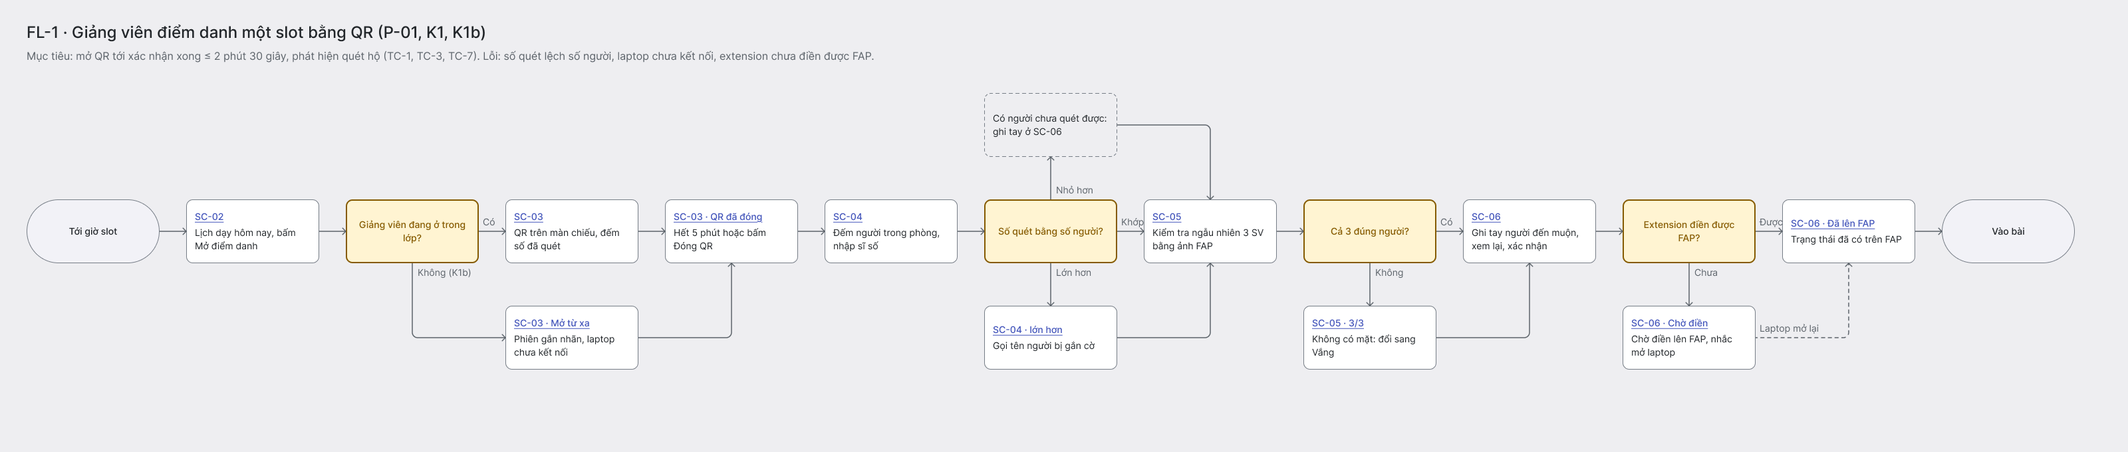
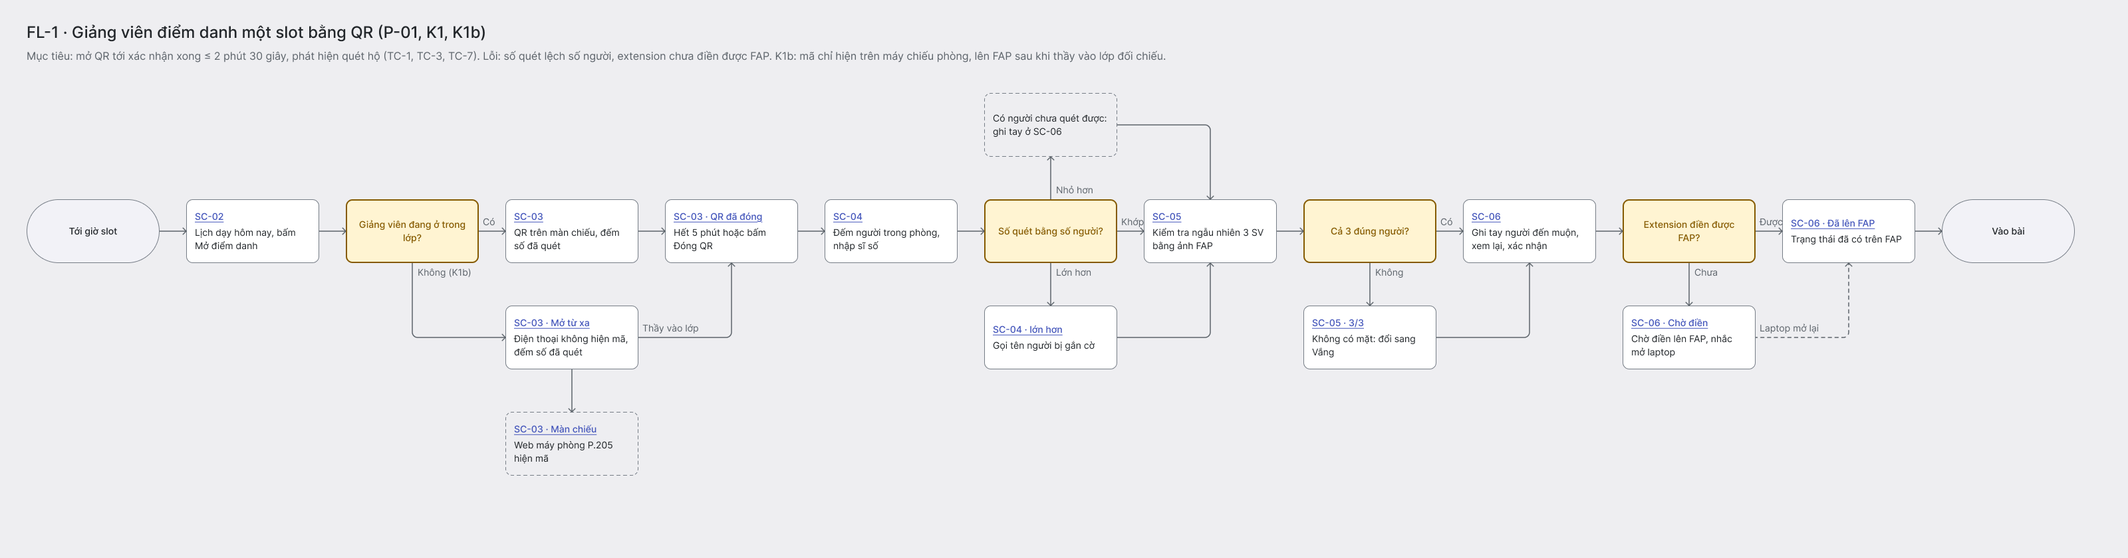
Figma IT-3b: one consistent day, remote QR on the room display, full prototype
Fix the clipped nav badge, drop decorative elements, retime K5 to PRM393 07:01,
add 6 state variants and the 'Màn chiếu P.205' web page, redraw the 3 user flows
and rebuild the prototype with 9 starting points. Record D-24 (pending) and AI-24.

Claude-Session: https://claude.ai/code/session_01MPJuKeLL2fQwoXmpsr75wd

diff --git a/design/figma-build.md b/design/figma-build.md
@@ -3,24 +3,43 @@
 | Thuộc tính | Giá trị |
 |---|---|
 | Mã tài liệu | DES-FIGMA-IT3 |
-| Trạng thái | Bản dựng đầu, chờ thien kiểm và sửa tay (D-07) |
+| Trạng thái | IT-3b: đã sửa theo góp ý của thien ngày 14/10, chờ thien kiểm và sửa tay (D-07) |
 | File Figma | [PRM323 Lab 2 · SE190533 · Điểm danh FAP](https://www.figma.com/design/9yDa2ylfREmndW1mK1hf7w) |
-| Người dựng | Claude qua Figma MCP (AI-23), theo D-07 B |
+| Người dựng | Claude qua Figma MCP (AI-23, AI-24), theo D-07 B |
 | Đầu vào | `design/DESIGN.md` v2, `design/component-system.md` (D-22, D-23), `ux/user-flow.md` v2, `ux/persona.md` v2, CR-01..CR-25 đã duyệt |
 | Ảnh xuất | `assets/figma/` |
+| Tài khoản | File nằm trong team edu của một người bạn (tài khoản edu có đủ lượt gọi MCP). Xem mục 4 |
 
 ## 1. Sáu trang
 
 | Trang | Nội dung | Ảnh |
 |---|---|---|
-| 01 User Flow | FL-1, FL-2, FL-3 vẽ lại từ `ux/user-flow.md`. Mỗi ô màn hình có mã SC màu xanh, gạch chân, bấm vào là nhảy tới đúng frame (đúng biến thể) trên trang 03 | `FL-1-user-flow.png`, `FL-2-user-flow.png`, `FL-3-user-flow.png` |
+| 01 User Flow | FL-1, FL-2, FL-3 vẽ lại từ `ux/user-flow.md`, có thêm nhánh mở từ xa (K1b), chưa cấp quyền camera và mất mạng khi gửi báo sai. Mỗi ô màn hình có mã SC màu xanh, gạch chân, bấm vào là nhảy tới đúng frame (đúng biến thể) trên trang 03 | `FL-1-user-flow.png`, `FL-2-user-flow.png`, `FL-3-user-flow.png` |
 | 02 Wireframe | 15 khung lo-fi, một khung cho mỗi SC | — |
-| 03 Final UI | 40 frame 360 × 800: 15 màn và 25 biến thể trạng thái đặt cùng hàng, bên phải màn gốc. Trên mỗi frame có nhãn, dưới mỗi frame có ghi chú trỏ về TC, NT, CR | `SC-01-…png` tới `SC-15-…png` |
+| 03 Final UI | 46 frame 360 × 800 (15 màn và 31 biến thể trạng thái, đặt cùng hàng bên phải màn gốc) và 1 frame web 1280 × 720 "Màn chiếu P.205". Trên mỗi frame có nhãn, dưới mỗi frame có ghi chú trỏ về TC, NT, CR và giờ trong ngày | `SC-01-…png` tới `SC-15-…png`, `SC-03-mo-tu-xa.png`, `SC-03-man-chieu-p205.png` |
 | 04 Design System | Biến màu (Light bắt buộc, Dark tùy chọn), 7 text style Inter, khoảng cách, góc bo, 4 effect style, xem trước Light/Dark | `page-04-design-system.png` |
-| 05 Components | 35 icon Lucide và 15 component set CMP-01..CMP-15 dựng bằng Auto Layout, variant và biến token | `page-05-components.png` |
-| 06 Prototype | Bản sao các màn được nối thành 3 luồng, có 3 điểm bắt đầu | — |
+| 05 Components | 35 icon Lucide và 15 component set CMP-01..CMP-15 dựng bằng Auto Layout, variant và biến token. CMP-04 có thêm 2 thuộc tính "Có báo sai mới" và "Số báo sai" | `page-05-components.png` |
+| 06 Prototype | 8 hàng, 9 điểm bắt đầu, xem mục 3 | — |
 
 Token chỉ lấy từ DESIGN.md (CR-21): 18 biến màu trong collection "Color · DESIGN.md v2", 16 biến số trong collection "Scale · DESIGN.md v2". Màu, khoảng cách, góc bo và chiều cao 48 dp trong component đều gắn biến, không nhập số tay.
+
+### Một ngày xuyên suốt
+
+Mọi màn kể cùng một ngày, thứ Tư 14/10, để giờ trên app bar, chip và ghi chú không mâu thuẫn nhau:
+
+| Giờ | Giảng viên (thầy dạy PRM393, SWT301) | Sinh viên (persona P-02) |
+|---|---|---|
+| 06:55 | Nếu chưa tới lớp: Mở từ xa (K1b) | |
+| 06:58 | SC-02, chưa điểm danh slot 1, chưa có báo sai | |
+| 07:01 | | Quét PRM393 · P.205 (K5): lần đầu mã hết hạn, quét lại được lúc 07:01:04 |
+| 07:02 | | SC-09 chip Chờ xác nhận, nút quét tắt |
+| 07:12–07:15 | Xác nhận slot 1; laptop tắt nên chờ điền, mở lại thì lên FAP 07:14 | |
+| 09:52 | SWT301 lên FAP | |
+| 11:52 | Ngô Thanh Vy gửi báo sai | |
+| 12:05 | SC-02 có huy hiệu 2 ở tab Báo sai, xử lý báo sai (FL-3) | |
+| 20:15–20:58 | | MAS291 bị ghi Vắng vì điện thoại hết pin (K3), gửi báo sai |
+
+K3 trong persona lấy ví dụ slot 1. Trong Figma, slot 1 (PRM393) đã dùng cho K5 nên K3 chuyển sang MAS291 slot 2; lý do bị Vắng và cách báo sai giữ nguyên.
 
 ## 2. Những phát hiện được giao cho Figma
 
@@ -32,32 +51,51 @@ Token chỉ lấy từ DESIGN.md (CR-21): 18 biến màu trong collection "Color
 
 ## 3. Prototype (trang 06)
 
-| Luồng | Điểm bắt đầu | Đường chính | Overlay | Loading → kết quả | Lỗi và hồi phục |
-|---|---|---|---|---|---|
-| FL-1 | SC-02 · Đang tải | SC-02 → SC-03 → dialog đóng QR → SC-03 đã đóng → SC-04 → SC-05 (chạm Hoàng Mai Linh) → SC-05 3/3 → SC-06 → dialog xác nhận → Chờ điền lên FAP → Đã lên FAP → SC-02 sau slot 1 | Đóng QR sớm; Xác nhận gửi lên FAP | SC-02 skeleton → lịch (1 giây); Chờ điền lên FAP → Đã lên FAP (2 giây, mô phỏng extension) | Nút "Thử điền lại" khi extension chưa điền được |
-| FL-2 | SC-09 · Có phiên đang mở | SC-09 → SC-10 (chạm khung quét) → SC-11 đang xác thực → Mã hết hạn → Quét lại → SC-10 → SC-11 thành công → SC-09 buổi tối → SC-12 → SC-13 → đang gửi → SC-14 đã gửi | — | SC-11 (1,2 giây) hai lần; SC-13 đang gửi → SC-14 (1,2 giây) | Mã hết hạn → Quét lại (K5) |
-| FL-3 | SC-02 · Sau slot 1, tab Báo sai | SC-02 → SC-07 → SC-08 → Sửa thành Có mặt → SC-08 đã sửa → SC-07 | Từ chối báo sai (Destructive) | — | "Hủy" trên dialog từ chối quay lại SC-08 |
+Mỗi hàng là một luồng, có tiêu đề và một dòng mô tả ở trên. Chọn điểm bắt đầu trong bảng Flow khi bấm Present.
 
-Đã kiểm bằng script đọc toàn bộ reaction trên trang 06: mọi frame đều có lối ra, không có đích hỏng, chỉ frame bắt đầu của FL-1 là không có mũi tên đi vào. Nút quay lại trên app bar dùng hành động Back. Hai nút không được nối: "Không quét được?" ở SC-10 (sheet hướng dẫn chưa có trong Figma) và nút "Xem lại và xác nhận" ở SC-05 1/3 (đang vô hiệu, đúng thiết kế).
+| Hàng | Điểm bắt đầu | Đường đi | Overlay, loading | Lỗi và hồi phục |
+|---|---|---|---|---|
+| FL-1 · Giảng viên điểm danh tại lớp | SC-01 | Đăng nhập → SC-02 đang tải → 06:58 → Mở điểm danh → SC-03 → đóng QR → SC-04 → SC-05 → SC-06 → xác nhận → Chờ điền lên FAP → Thử điền lại → Đã lên FAP → SC-02 07:15 | Dialog đóng QR sớm; dialog xác nhận gửi lên FAP; SC-02 đang tải 1 giây | Ở SC-04 bấm "−" để thấy số quét lớn hơn số người, "+" để về lại. "Về lịch dạy" khi đang chờ điền đưa tới SC-02 07:15 có thẻ Chờ điền lên FAP, chạm thẻ để thử lại |
+| FL-1 nhánh K1b · Mở từ xa | SC-02 06:58 | Mở từ xa → SC-03 mở từ xa (chạm khung xanh để xem trang Màn chiếu P.205) → "Tôi đã vào lớp: đóng QR" → QR đã đóng → nối vào SC-04 của FL-1 | — | Phiên mở từ xa không lên FAP trước bước đối chiếu |
+| FL-1 lỗi · Sai tài khoản | SC-01 lỗi tài khoản | Đăng nhập lại → nối vào FL-1 | — | Có |
+| FL-2 · Sinh viên quét mã (K5) | SC-09 07:01 | Quét mã → SC-10 (chạm khung quét) → đang xác thực → Mã hết hạn → Quét lại → thành công → SC-09 chờ xác nhận → tab Báo sai (trống) | SC-11 đang xác thực 1,2 giây, hai lần | Mã hết hạn → Quét lại |
+| FL-2 lỗi · Camera và mất mạng | SC-10 chưa có quyền camera | Cấp quyền → quét → mất mạng → thử lại → thành công | SC-11 đang xác thực | Chưa cấp camera; mất mạng |
+| FL-2 · Sinh viên báo sai (K3) | SC-09 20:58 | Chạm MAS291 → SC-12 → SC-13 → đang gửi → mất mạng → gửi lại → SC-14 Đã gửi → sau 3 giây Đã sửa | SC-13 đang gửi 1,2 giây, hai lần; SC-14 Đã gửi → Đã sửa 3 giây (mô phỏng giảng viên xử lý) | Mất mạng khi gửi → Thử gửi lại |
+| FL-2 phục hồi · Bị từ chối | SC-14 bị từ chối | Xem cách gửi đơn khiếu nại → SC-15 | — | Đường sang đơn khiếu nại |
+| FL-2 phục hồi · Quá hạn (K4) | SC-12 đã qua hạn (13/10) | Xem cách gửi đơn khiếu nại → SC-15 | — | Như trên |
+| FL-3 · Xử lý báo sai | SC-02 12:05 | Tab Báo sai (huy hiệu 2) → SC-07 → báo sai của Hoàng Mai Linh → Sửa thành Có mặt → SC-08 đã sửa → SC-07 sau khi sửa → tab Hôm nay, huy hiệu còn 1 | Dialog từ chối (Destructive) → SC-07 sau khi từ chối | Hủy trên dialog quay lại SC-08 |
+
+Đã kiểm bằng script đọc toàn bộ reaction trên trang 06: 59 frame, 0 đích hỏng, frame nào cũng có lối ra, chỉ 9 điểm bắt đầu là không có mũi tên đi vào. Nút quay lại trên app bar dùng hành động Back. Những chỗ cố ý chưa nối: "Không quét được?" (sheet chưa có, việc của thien ở mục 5), "Ghi tay thêm sinh viên" ở SC-06 (sheet chưa có), "Mở FAP" ở SC-15 (mở trang ngoài), và nút đang vô hiệu.
 
 ## 4. Khoảng trống còn lại
 
 | Khoảng trống | Vì sao quan trọng | Đề xuất |
 |---|---|---|
 | SC-11 còn thiếu 4 trạng thái ghi trong `ux/user-flow.md`: đã quét rồi, không có trong lớp, máy đã dùng cho tài khoản khác, QR đã đóng | Rubric chấm "trạng thái thiếu" | Nhân bản frame "Mã hết hạn", đổi tiêu đề, nguyên nhân, biểu tượng bằng thuộc tính của CMP-09 |
-| Sheet "Không quét được?" (SC-10) | Đã có ở Stitch IT-1, chưa có ở Figma | Dựng bằng frame có góc bo 2xl như sheet chống gian lận |
+| Sheet "Không quét được?" (SC-10, SC-11) | Đã có ở Stitch IT-1, chưa có ở Figma | Dựng bằng frame có góc bo 2xl như sheet chống gian lận, nối vào FL-2 |
 | Kiểm ở bề rộng 412 dp | Checklist accessibility của đề yêu cầu | Nhân bản 3 màn, đổi rộng 412, ghi kết quả vào `design/design-decisions.md` |
 | SC-15: tên mục "Thủ tục/Đơn từ", phòng QLĐT, 2 ngày làm việc | Lấy từ `research/02-desk/fap-edit-window.md` (V01, V02), là nguồn không chính thức | thien mở FAP thật và sửa chữ nếu khác |
-| Huy hiệu "1" trên tab Báo sai ở SC-09 lúc 09:20 | Sinh viên chưa gửi báo sai nào nên số này không có nghĩa | Bỏ huy hiệu ở biến thể sáng, chỉ hiện từ khi có kết quả báo sai |
-| File nằm trong team "Ngo Gia Kiet (K18 HCM)'s team" | Lịch sử phiên bản sẽ hiện tên tài khoản tạo file | thien xác nhận đây là tài khoản của mình, hoặc chuyển file về team của mình trước khi nộp |
+| Màn chiếu P.205 giả định phòng học có máy tính nối máy chiếu | D-19 nói "máy tính trong phòng có app desktop tự hiện QR", nhưng chưa có ảnh hay nguồn | thien chụp một phòng học ở HCM, hoặc ghi rõ là giả định trên slide |
+| File nằm trong team "Ngo Gia Kiet (K18 HCM)'s team", là tài khoản edu của bạn thien, mượn để có đủ lượt gọi MCP | Giảng viên chấm D-07 bằng lịch sử phiên bản; mọi thao tác hiện mang tên chủ tài khoản | Nhờ bạn mời tài khoản của thien vào file với quyền chỉnh sửa, rồi thien làm mục 5 bằng tài khoản đó. Ghi rõ trong Disclosure |
 
 ## 5. Phần thien làm tay trên Figma (D-07)
 
 Đề cho phép AI dựng nhưng lịch sử phiên bản Figma sẽ được xem. Những việc dưới đây vừa lấp khoảng trống ở mục 4, vừa để lại dấu thao tác của người thiết kế:
 
-1. Dựng 4 trạng thái còn thiếu của SC-11 từ CMP-09 (mục 4, dòng 1).
+0. Vào file bằng tài khoản của thien (mục 4, dòng cuối).
+1. Dựng 4 trạng thái còn thiếu của SC-11 từ CMP-09.
 2. Dựng sheet "Không quét được?" và nối nó vào prototype FL-2.
 3. Kiểm 3 màn ở 412 dp, sửa chỗ vỡ nếu có.
 4. Mở FAP, kiểm lại chữ ở SC-15.
-5. Bỏ huy hiệu sai ở SC-09.
-6. Chạy cả 3 luồng ở chế độ Present, sửa chỗ chạm lệch, rồi lưu một phiên bản có tên trong version history (ví dụ "IT-3 thien kiểm xong").
+5. Chạy cả 9 điểm bắt đầu ở chế độ Present, sửa chỗ chạm lệch, rồi lưu một phiên bản có tên trong version history (ví dụ "IT-3 thien kiểm xong").
+
+## 6. Vòng sửa IT-3b (14/10, theo góp ý của thien)
+
+| Góp ý | Đã sửa |
+|---|---|
+| Huy hiệu số trên tab Báo sai bị cắt | CMP-04: bỏ cắt nội dung ở tab và nền chỉ báo, đẩy huy hiệu lên 6 px, thêm thuộc tính bật/tắt và số. Huy hiệu chỉ bật ở SC-02 12:05 (2) và bản sao 12:08 trên trang 06 (1) |
+| Mỗi thành phần phải có lý do | Bỏ banner "2 báo sai mới" ở SC-02 (trùng huy hiệu); bỏ chip "Chưa điểm danh" ở slot chưa tới giờ; bỏ banner hạn báo sai ở SC-09 khi không có buổi nào sai (NT-4 chỉ áp dụng ở màn có báo sai); bỏ phụ đề ngày ở SC-14; bỏ chữ "Ai đang trong phòng?" ở SC-04; bỏ câu "Giảng viên sẽ kiểm tra ngẫu nhiên." ở SC-11 Mã hết hạn |
+| Giờ giấc không khớp | Dựng lại một ngày (mục 1): K5 dời về PRM393 07:01 thay cho MAS291 09:31, vì MAS291 là buổi bị Vắng ở K3; SC-02 có thêm biến thể 07:15 đã lên FAP và 12:05 có báo sai mới |
+| Thiếu trạng thái để prototype liền mạch | Thêm SC-09 "Đã quét, chờ xác nhận", SC-14 "Trống", SC-07 "Sau khi sửa" và "Sau khi từ chối" |
+| Luồng mở QR khi giảng viên ở ngoài | SC-03 mở từ xa không còn hiện mã trên điện thoại; thêm trang web "Màn chiếu P.205" gắn với phòng; nút "Tôi đã vào lớp: đóng QR" nối vào bước đối chiếu. Chờ thien chốt D-24 |
+| Prototype chưa trọn vẹn | Dựng lại trang 06 như mục 3 |

diff --git a/process/traceability-matrix.md b/process/traceability-matrix.md
@@ -40,19 +40,19 @@ Nguồn (S/H, R, O, T, Survey) → Phát hiện F → Nhu cầu N → Persona P 
 | Màn hình SC | Component CMP (variant) | Frame Figma | Mục handoff |
 |---|---|---|---|
 | SC-01 | CMP-01 | Trang 03, hàng SC-01: Default; Lỗi tài khoản | `handoff/flutter-handoff.md` (S5) |
-| SC-02 | CMP-03, CMP-10, CMP-01, CMP-04, CMP-05, CMP-07 (skeleton) | Trang 03, hàng SC-02: Default; Sau slot 1; Đang tải | `handoff/flutter-handoff.md` (S5) |
-| SC-03 | CMP-05, CMP-14 (Đang mở, Đã đóng), CMP-11, CMP-10, CMP-01, CMP-06 (Confirmation) | Trang 03, hàng SC-03: Default; QR đã đóng; Mở từ xa, laptop chưa kết nối; Dialog đóng QR sớm | `handoff/flutter-handoff.md` (S5) |
+| SC-02 | CMP-03, CMP-10, CMP-01, CMP-04, CMP-05, CMP-07 (skeleton) | Trang 03, hàng SC-02: Default 06:58; Sau slot 1, chờ điền lên FAP; Đang tải; Sau slot 1, đã lên FAP; Có báo sai mới | `handoff/flutter-handoff.md` (S5) |
+| SC-03 | CMP-05, CMP-14 (Đang mở, Đã đóng), CMP-11, CMP-10, CMP-01, CMP-06 (Confirmation) | Trang 03, hàng SC-03: Default; QR đã đóng; Mở từ xa; Dialog đóng QR sớm; trang web Màn chiếu P.205 (D-24) | `handoff/flutter-handoff.md` (S5) |
 | SC-04 | CMP-05, CMP-11, CMP-01 | Trang 03, hàng SC-04: Default (khớp); Số quét lớn hơn số người | `handoff/flutter-handoff.md` (S5) |
 | SC-05 | CMP-05, CMP-15, CMP-01 | Trang 03, hàng SC-05: Default 1/3; Đã kiểm tra 3/3 | `handoff/flutter-handoff.md` (S5) |
 | SC-06 | CMP-05, CMP-11, CMP-10, CMP-01, CMP-06 (Confirmation) | Trang 03, hàng SC-06: Default; Dialog xác nhận; Chờ điền lên FAP; Đã lên FAP | `handoff/flutter-handoff.md` (S5) |
-| SC-07 | CMP-05, CMP-03, CMP-10, CMP-04, CMP-08 | Trang 03, hàng SC-07: Default; Trống | `handoff/flutter-handoff.md` (S5) |
+| SC-07 | CMP-05, CMP-03, CMP-10, CMP-04, CMP-08 | Trang 03, hàng SC-07: Default; Trống; Sau khi sửa; Sau khi từ chối | `handoff/flutter-handoff.md` (S5) |
 | SC-08 | CMP-05, CMP-10, CMP-01, CMP-06 (Destructive) | Trang 03, hàng SC-08: Default; Dialog từ chối; Đã sửa | `handoff/flutter-handoff.md` (S5) |
-| SC-09 | CMP-05, CMP-12, CMP-03, CMP-10, CMP-01 (Disabled), CMP-04 | Trang 03, hàng SC-09: Default; Có phiên đang mở; Buổi tối, có buổi Vắng | `handoff/flutter-handoff.md` (S5) |
+| SC-09 | CMP-05, CMP-12, CMP-03, CMP-10, CMP-01 (Disabled), CMP-04 | Trang 03, hàng SC-09: Default; Có phiên đang mở; Buổi tối, có buổi Vắng; Đã quét, chờ xác nhận | `handoff/flutter-handoff.md` (S5) |
 | SC-10 | CMP-01, CMP-09 | Trang 03, hàng SC-10: Default; Chưa có quyền camera | `handoff/flutter-handoff.md` (S5) |
 | SC-11 | CMP-05, CMP-07 (Spinner), CMP-10, CMP-01, CMP-09 | Trang 03, hàng SC-11: Đang xác thực; Thành công; Mã hết hạn; Mất mạng | `handoff/flutter-handoff.md` (S5) |
 | SC-12 | CMP-05, CMP-10, CMP-12, CMP-01 | Trang 03, hàng SC-12: Còn hạn; Đã qua hạn | `handoff/flutter-handoff.md` (S5) |
 | SC-13 | CMP-05, CMP-02, CMP-12, CMP-01 (Loading) | Trang 03, hàng SC-13: Nhập; Đang gửi; Mất mạng | `handoff/flutter-handoff.md` (S5) |
-| SC-14 | CMP-05, CMP-13, CMP-10, CMP-01, CMP-04 | Trang 03, hàng SC-14: Đã gửi; Đã sửa; Bị từ chối | `handoff/flutter-handoff.md` (S5) |
+| SC-14 | CMP-05, CMP-13, CMP-10, CMP-01, CMP-04, CMP-08 | Trang 03, hàng SC-14: Đã gửi; Đã sửa; Bị từ chối; Trống | `handoff/flutter-handoff.md` (S5) |
 | SC-15 | CMP-05, CMP-01 | Trang 03, hàng SC-15: Một trạng thái | `handoff/flutter-handoff.md` (S5) |
 
 ## 4. AI critique → Quyết định → Thay đổi trong Figma
@@ -64,6 +64,7 @@ Nguồn (S/H, R, O, T, Survey) → Phát hiện F → Nhu cầu N → Persona P 
 | CR-21 | DESIGN.md mục 4 | Modify: Figma chỉ dùng biến DESIGN.md | D-20, D-22 | Mọi màn (trang 04, 05) |
 | CR-24 | WCAG 1.4.10; NT-3 | Accept: xuống dòng, không cắt dữ liệu | — | SC-03, SC-04 (CMP-11) |
 | CR-25 | Nielsen #1; CMP-14 | Accept: trạng thái QR đã đóng | — | SC-03 · QR đã đóng (CMP-14) |
+| IT-3b (góp ý của thien, 14/10) | Nielsen #8 (bỏ phần trang trí), #1; NT-4, NT-5 | Accept: bỏ banner, chip, phụ đề thừa; thống nhất giờ trong ngày; huy hiệu CMP-04 không bị cắt; mở từ xa theo D-24 | D-24 (TẠM) | SC-02, SC-03, SC-04, SC-07, SC-09, SC-11, SC-14 (`design/figma-build.md` mục 6) |
 
 ## 5. Kiểm tra độ phủ (chạy trước khi nộp)
 

diff --git a/ai/ai-design-log.md b/ai/ai-design-log.md
@@ -29,6 +29,7 @@ Ghi theo thứ tự thời gian, mỗi lần dùng AI có một mã `AI-nn` (xem
 | AI-21 | 14/10/2026 | Claude (phản biện), thien chạy Stitch | Kiểm IT-1 bằng ảnh và mã HTML: 15/16 phát hiện đã sửa, 6 phát hiện mới CR-18..CR-23; soạn prompt IT-2 | `design/stitch-critique-it1.md`; `ai/prompts/AI-21-stitch-it2.md` → `assets/stitch/IT-2-*.png` |
 | AI-22 | 14/10/2026 | Claude (phản biện) | Kiểm IT-2: 5/5 phát hiện đã sửa; đánh giá lại CR-19 nhờ đọc mã HTML (bộ đếm chạy thật); thêm CR-24, CR-25; chốt vòng Stitch | `design/stitch-critique-it2.md` |
 | AI-23 | 14/10/2026 | Claude (Figma MCP, Plugin API) | Dựng file Figma IT-3: biến token, text/effect style, 15 component, 15 màn và 25 biến thể, 3 user flow có liên kết, prototype 3 luồng; áp dụng CR-21, CR-24, CR-25 | Không có prompt riêng; đầu vào là DESIGN.md v2, user-flow v2 → file Figma, `design/figma-build.md`, `assets/figma/` |
+| AI-24 | 14/10/2026 | Claude (Figma MCP, Plugin API) | Vòng IT-3b theo góp ý của thien: sửa huy hiệu CMP-04, rà nghĩa từng thành phần, thống nhất giờ trong một ngày, thêm 6 biến thể và trang web Màn chiếu P.205, dựng lại 3 User Flow và prototype 9 điểm bắt đầu | Không có prompt riêng; đầu vào là góp ý của thien, D-19, D-21, gợi ý của GVHD → file Figma, `design/figma-build.md` mục 6, D-24 |
 
 ## AI-23 — Dựng file Figma (14/10/2026)
 
@@ -37,6 +38,13 @@ Ghi theo thứ tự thời gian, mỗi lần dùng AI có một mã `AI-nn` (xem
 - **Tự kiểm:** chụp lại từng màn sau khi dựng và sửa các lỗi dựng hình (thuộc tính chữ dùng chung làm mọi chip cùng một nhãn, scrim đục hẳn, hàng danh sách đè nhau, chữ cái avatar sai, ô lý do không giãn theo nội dung…). Script đọc toàn bộ reaction ở trang 06 xác nhận không có ngõ cụt.
 - **Sửa nội dung nhờ đối chiếu nghiên cứu:** bản đầu của SC-15 ghi thời gian xử lý đơn là "vài ngày (Assumed)". Đối chiếu `research/02-desk/fap-edit-window.md` thì đã có nguồn V01, V02: mục Thủ tục/Đơn từ, phòng QLĐT, 2 ngày làm việc. Màn được sửa theo nguồn.
 - **Khoảng trống chưa làm:** 4 trạng thái của SC-11, sheet "Không quét được?", kiểm 412 dp (`design/figma-build.md` mục 4).
+
+## AI-24 — Sửa Figma theo góp ý (IT-3b, 14/10/2026)
+
+- **Góp ý của thien:** huy hiệu số bị che; mỗi thành phần phải có mục đích; prototype phải nối trọn vẹn; xử lý thế nào khi giảng viên mở QR lúc đang ở ngoài (GVHD gợi ý một trang web hiện QR; thien lo nút "Điểm danh" trong app làm SV ở nhà cũng điểm danh được).
+- **Phản biện của Claude:** đồng ý với lo ngại của thien, nút trong app không chứng minh có mặt. Đề xuất trang web gắn với phòng thay vì link công khai (D-24, chờ thien chốt, Figma dựng tạm theo A).
+- **Tự kiểm:** rà từng frame và bỏ 6 thành phần không có việc gì để làm (mục 6 của `design/figma-build.md`). Phát hiện mâu thuẫn giờ: SC-11 báo SV quét MAS291 lúc 09:31 trong khi SC-09 buổi tối ghi MAS291 "không có lượt quét". Sửa bằng một dòng thời gian chung cho cả ngày. Script đọc reaction trang 06: 59 frame, 9 điểm bắt đầu, 0 đích hỏng, không frame nào thiếu lối ra.
+- **Giới hạn:** giả định phòng học có máy tính nối máy chiếu chưa có bằng chứng; lượt quét ngoài Wi-Fi trường chỉ gắn cờ.
 
 ## AI-03 — Kiểm định thiên lệch bộ câu hỏi (13/10/2026)
 

diff --git a/process/decision-log.md b/process/decision-log.md
@@ -28,3 +28,4 @@ Trạng thái: **MỞ** (chờ thien) · **CHỐT** · **TẠM** (Claude làm ti
 | D-21 | Chống gian lận khi QR chiếu chung (D-19) | A. Chỉ lớp nền của app thật (tài khoản, danh sách lớp, QR 15 giây) · B. Thêm một máy một người, đối chiếu sĩ số, kiểm tra ngẫu nhiên 3 SV có ảnh FAP; phiên mở từ xa phải chờ GV xác nhận rồi mới điền FAP · C. B cộng kiểm tra wifi trường hoặc GPS | **B.** Không biện pháp kỹ thuật nào chặn hết (RES-DESK-QR); bỏ đọc tên là bỏ lớp kiểm soát con người duy nhất, nên phải đưa lại một bước người kiểm tra. Kiểm tra ngẫu nhiên 3/32 mỗi buổi cho xác suất bắt được người quét hộ ≈ 86% qua 20 buổi. C chặn oan SV dùng 4G (Q30) và đụng dữ liệu vị trí. Xem `ux/attendance-integrity.md` | **B** (thien chọn trên thẻ quyết định, 14/10/2026) | CHỐT |
 | D-22 | Hệ component và biểu tượng cho bản cuối | A. Giữ component theo M3 và Remix Icon như DESIGN.md v2 · B. Cấu trúc shadcn + Lucide, giữ màu FAP (D-20) và font Roboto, ghi đè kích thước cho di động (48 dp, chữ ≥ 14 sp) · C. shadcn nguyên bản, kể cả bảng màu mặc định | thien thấy IT-0 chưa elegant, muốn dùng shadcn + Lucide (14/10/2026). Đề xuất B: căn cứ ở DES-SYSTEM (`design/component-system.md`) mục 2. C mâu thuẫn D-20 | **B** (thien chọn trên thẻ quyết định, 14/10/2026) | CHỐT |
 | D-23 | Font của bản thiết kế | A. Roboto: FAP mới dùng (O-02.5, Observed) · B. Inter: web, mobile của app FAP Attendance đang dùng (DES-SYSTEM mục 0, Observed) | Đề xuất B. Người dùng ít nhận ra khác biệt giữa hai font không chân cùng họ neo-grotesque (suy luận, chưa có nghiên cứu), nên lợi ích "giống FAP" nhỏ. Còn nhất quán với sản phẩm thật thì thấy rõ và không tốn công đổi. Cả hai đủ dấu tiếng Việt | **B · Inter** (thien chọn trên thẻ quyết định, 14/10/2026) | CHỐT |
+| D-24 | Khi GV mở điểm danh từ xa (K1b), QR hiện ở đâu để SV quét? | A. Trang web "Màn chiếu P.205" gắn với máy tính phòng nối máy chiếu, mã tự hiện khi GV bấm Mở từ xa · B. Trang web ai có link cũng mở được (đúng nguyên văn gợi ý của GVHD) · C. Không dùng QR: nút "Điểm danh" trong app khi phiên mở (ý ban đầu của thien) | **A.** C chỉ chứng minh SV có tài khoản, không chứng minh có mặt: SV ở nhà và người điểm danh hộ đều qua được, đúng lo ngại của thien. B có link là quét được từ nhà trên laptop; chỉ còn bước đếm sĩ số để bắt. A giữ ý GVHD (dùng trang web) nhưng chỉ người trong phòng thấy mã; mã đổi sau 15 giây; lượt quét không qua Wi-Fi trường (FPTU_Students, AI-05) bị **gắn cờ, không chặn**, khác D-21 C ở chỗ chỉ áp dụng cho phiên mở từ xa và không chặn SV dùng 4G. Với cả ba cách, phiên mở từ xa vẫn giữ Chờ xác nhận tới khi GV vào lớp đối chiếu (D-21 B). Giả định: phòng học HCM có máy tính phòng nối máy chiếu (khớp D-19 "máy tính trong phòng có app desktop"), chưa có ảnh xác nhận | Chờ thien trả lời thẻ quyết định (14/10/2026). Figma đã dựng theo A | TẠM |

diff --git a/ux/user-flow.md b/ux/user-flow.md
@@ -62,7 +62,7 @@ graph TD
 |---|---|---|---|---|---|
 | SC-01 | Đăng nhập | Cả hai | FL-1, FL-2 | — | Mặc định, đang tải, lỗi tài khoản không thuộc FPTU |
 | SC-02 | Lịch dạy hôm nay | GV | FL-1, FL-3 | N-04, N-11 | Slot sắp tới (nút "Mở điểm danh"), đang mở, chờ xác nhận, chờ điền lên FAP, đã lên FAP, có báo sai mới |
-| SC-03 | Phiên điểm danh: QR đang mở | GV | FL-1 | N-04 | Mở tại lớp, **mở từ xa** (nhãn riêng), laptop chưa kết nối, sắp đóng, đã đóng; dòng có cờ "Cùng thiết bị" |
+| SC-03 | Phiên điểm danh: QR đang mở | GV | FL-1 | N-04 | Mở tại lớp, **mở từ xa** (mã chỉ hiện trên trang web Màn chiếu P.205, D-24), laptop chưa kết nối, sắp đóng, đã đóng; dòng có cờ "Cùng thiết bị" |
 | SC-04 | Đối chiếu sĩ số | GV | FL-1 | N-04 | Khớp, số quét lớn hơn số người (chỉ ra người quét cuối, quét sát lúc mã đổi), số quét nhỏ hơn số người |
 | SC-05 | Kiểm tra ngẫu nhiên | GV | FL-1 | N-04 | 3 thẻ có ảnh FAP; Đúng người, Không có mặt |
 | SC-06 | Xem lại và xác nhận | GV | FL-1 | N-03, N-11 | Ghi tay người đến muộn kèm giờ, còn cờ chưa xử lý, đã xác nhận: Chờ điền lên FAP, Đã lên FAP, extension lỗi |
@@ -88,7 +88,7 @@ Ba flow được chấm điểm. Flow nào cũng có nhánh lỗi. FL-3 là flow
 
 ### FL-1 · Điểm danh một slot bằng QR (P-01, kịch bản K1 và K1b)
 
-Mục tiêu: từ lúc mở QR tới lúc xác nhận xong trong ≤ 2 phút 30 giây, không sai lệch, và phát hiện được quét hộ (TC-1, TC-3, TC-7). Nhánh lỗi: số quét không khớp số người; laptop chưa kết nối; extension chưa điền được.
+Mục tiêu: từ lúc mở QR tới lúc xác nhận xong trong ≤ 2 phút 30 giây, không sai lệch, và phát hiện được quét hộ (TC-1, TC-3, TC-7). Nhánh lỗi: số quét không khớp số người; laptop chưa kết nối; extension chưa điền được. Nhánh K1b (D-24, đang chờ thien chốt): mã chỉ hiện trên trang web "Màn chiếu P.205" gắn với máy tính phòng, không hiện trên điện thoại của GV, để người ở ngoài phòng không thấy mã.
 
 ```mermaid
 flowchart TD
@@ -97,7 +97,11 @@ flowchart TD
     C -->|Có| D["Mở điểm danh"]
     C -->|Không, K1b| D2["Mở điểm danh từ xa<br/>(phiên gắn nhãn Mở từ xa)"]
     D --> E{"Laptop trong phòng<br/>đã kết nối?"}
-    D2 --> E
+    D2 --> E2{"Màn chiếu P.205<br/>(web trên máy phòng) đang mở?"}
+    E2 -->|Rồi| F2["SC-03 · Mở từ xa: mã chỉ hiện trên Màn chiếu P.205,<br/>điện thoại GV chỉ đếm số đã quét (D-24)"]
+    E2 -->|Chưa| E3["Không mở từ xa được,<br/>mở khi GV vào lớp"]
+    E3 -.-> D
+    F2 --> G
     E -->|Chưa| E1["SC-03 · Báo laptop chưa kết nối,<br/>hiện QR trên điện thoại để chiếu tạm"]
     E -->|Rồi| F["SC-03 · QR hiện trên màn chiếu,<br/>đếm số đã quét"]
     E1 --> F
